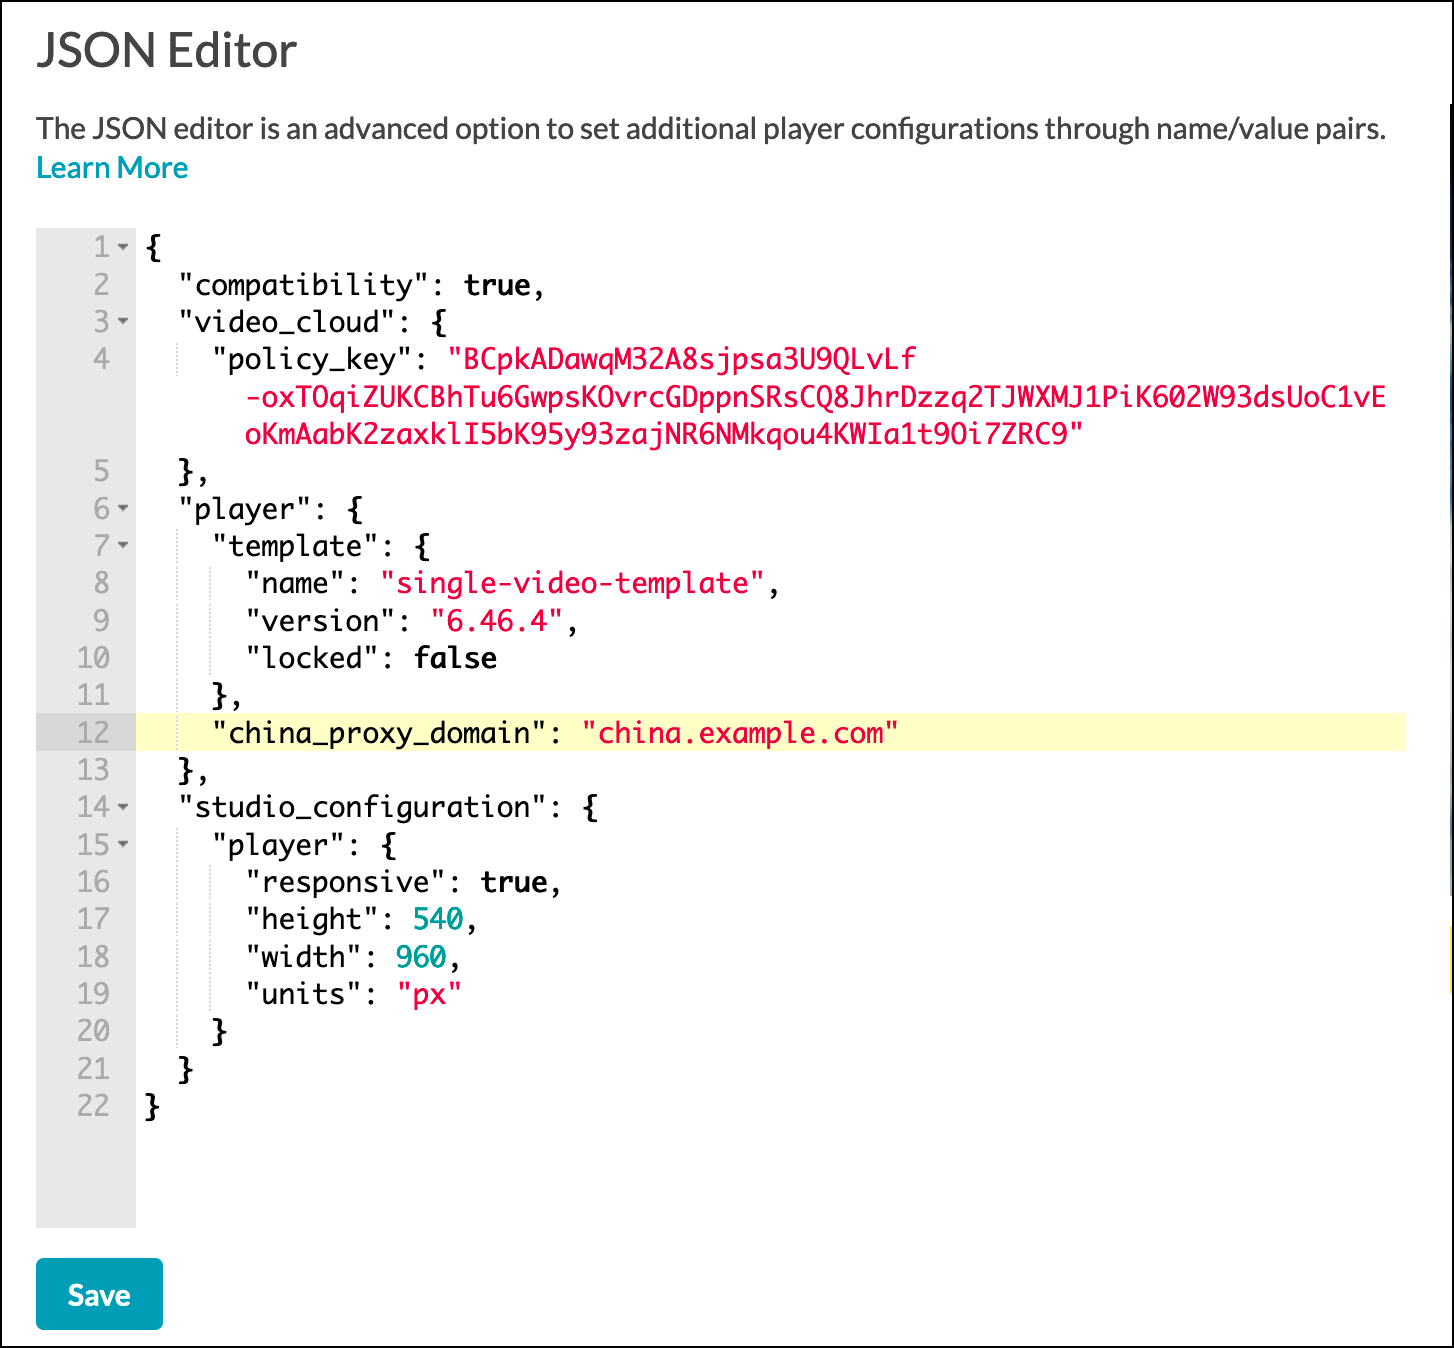
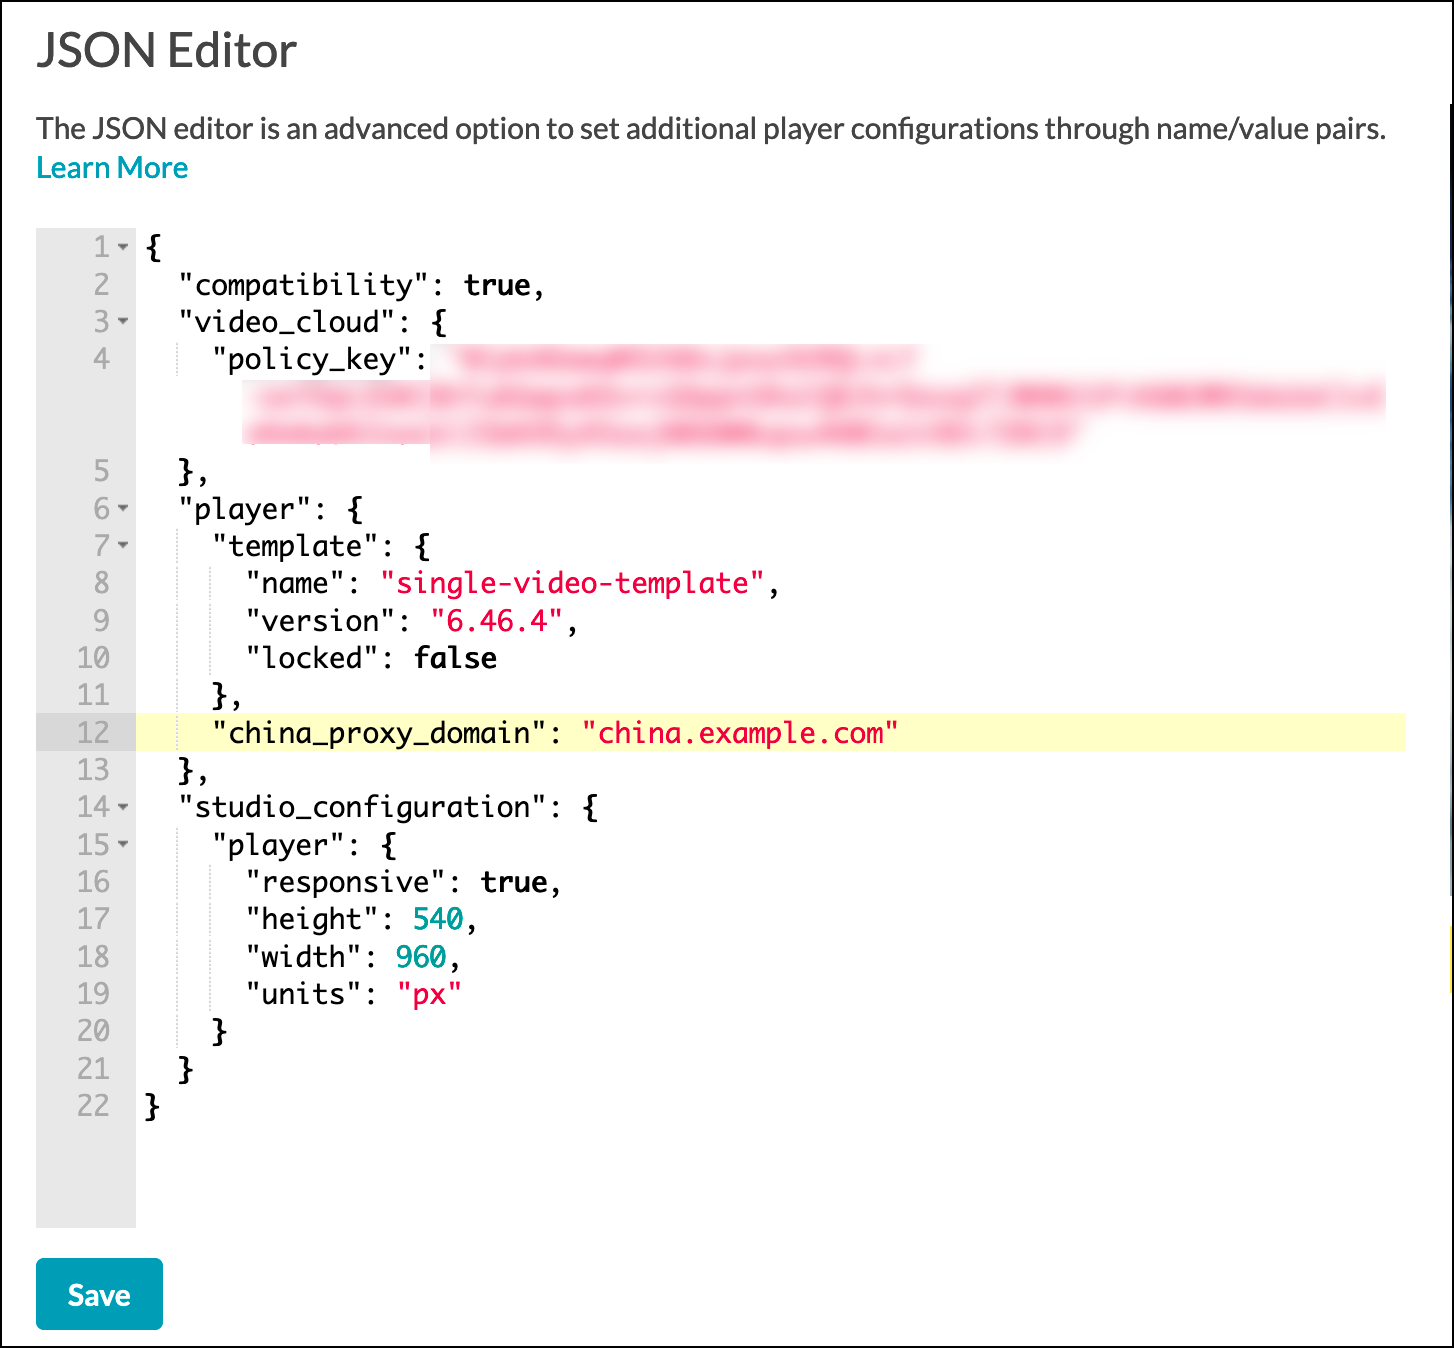
blur policy key

Changed region(s): [[0.1547, 0.2493, 0.9594, 0.3427]]

diff --git a/_site/playback/china-delivery-with-bcp.html b/_site/playback/china-delivery-with-bcp.html
@@ -1281,7 +1281,7 @@ function doGTranslate(lang_pair) {if(lang_pair.value)lang_pair=lang_pair.value;i
 
 <hr>
 <div class="last-updated">
-  Page last updated on 13 Jan 2021
+  Page last updated on 14 Jan 2021
 </div>
 
 
